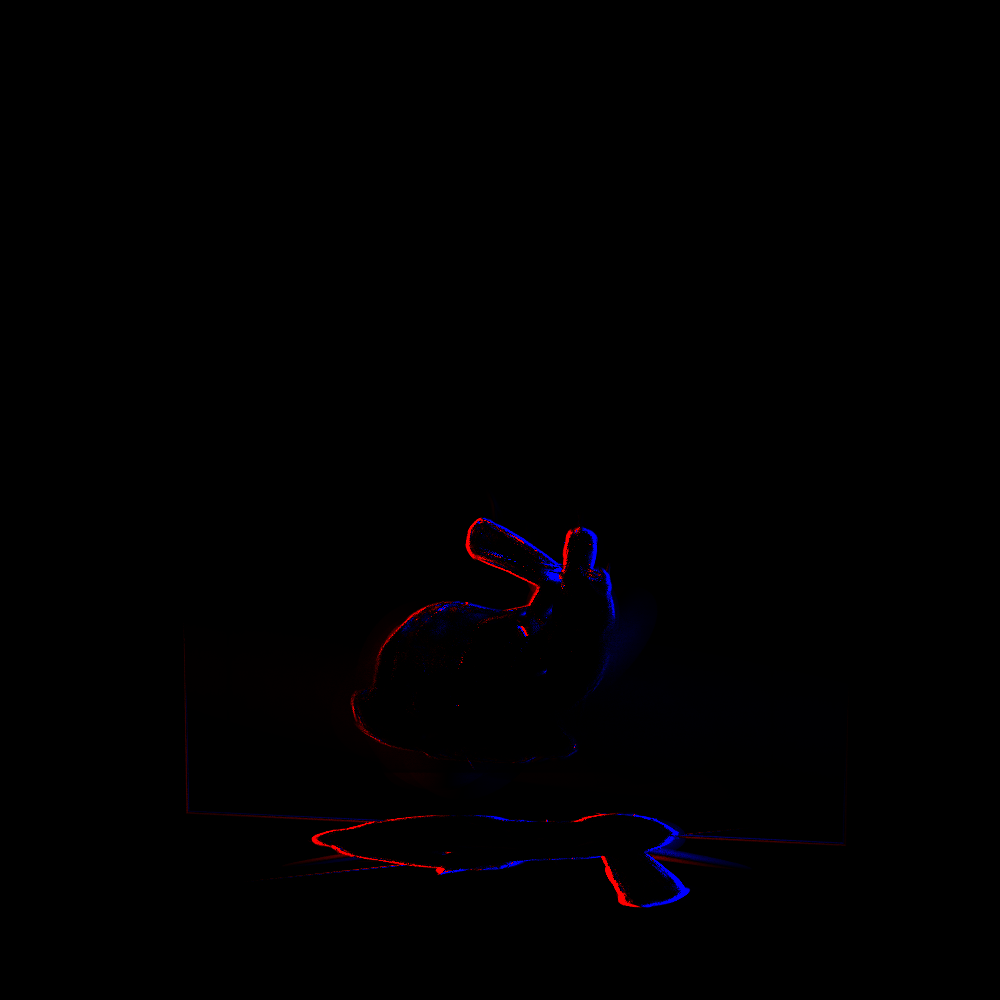
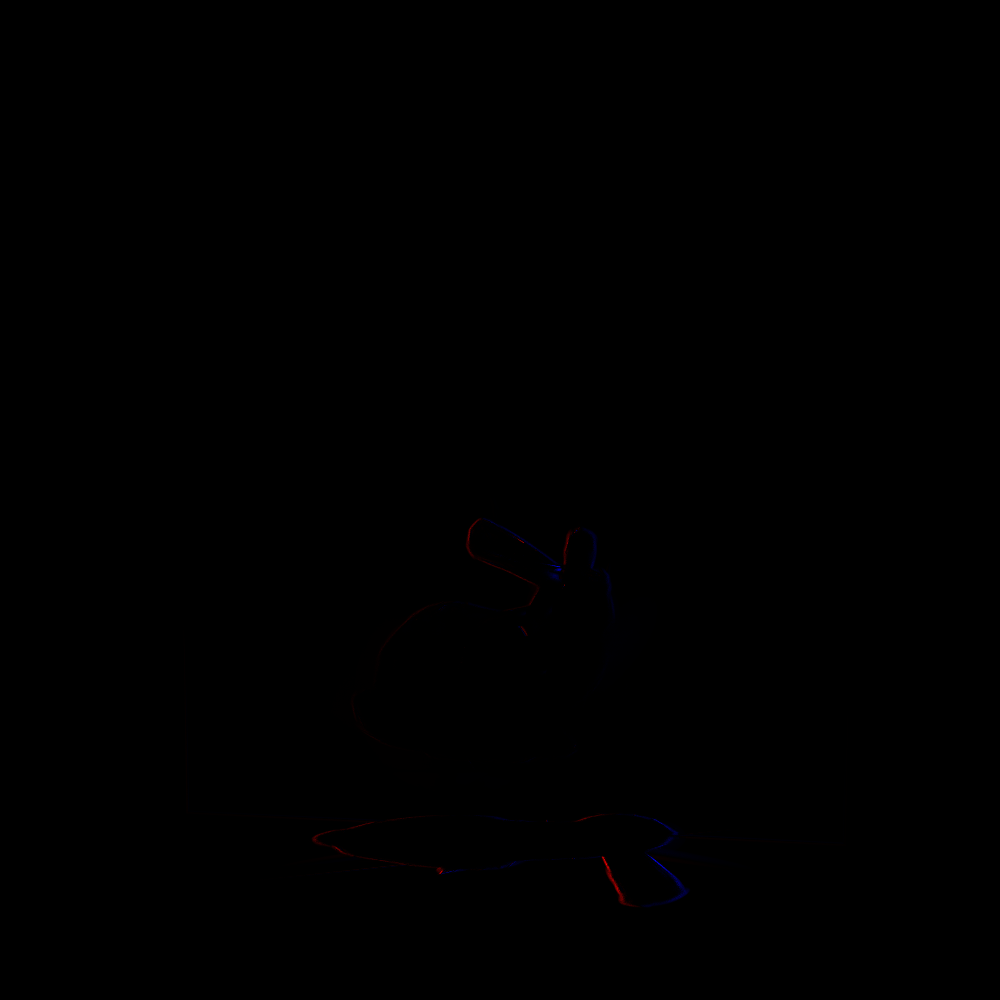
Test many samples

diff --git a/Pale/Renderer/PathTracer.cpp b/Pale/Renderer/PathTracer.cpp
@@ -27,12 +27,12 @@ namespace Pale {
 
 #else
         //  cuda/rocm
-        m_settings.photonsPerLaunch = 1e6; // 1e6
+        m_settings.photonsPerLaunch = 2e6; // 1e6
         m_settings.maxBounces = 4;
-        m_settings.numForwardPasses = 4;
-        m_settings.numGatherPasses = 4;
+        m_settings.numForwardPasses = 8;
+        m_settings.numGatherPasses = 8;
         m_settings.maxAdjointBounces = 2;
-        m_settings.adjointSamplesPerPixel = 16;
+        m_settings.adjointSamplesPerPixel = 256;
         // omp+
 
         //m_settings.photonsPerLaunch = 1e6; // 1e6
@@ -185,8 +185,8 @@ namespace Pale {
 
         auto topTLAS = bp.topLevelNodes.front();
         AABB sceneAabb{
-            topTLAS.aabbMin,
-            topTLAS.aabbMax
+            {-1, -1, 0},
+            {1, 1, 2},
         };
         const float Adiff = bp.diffuseSurfaceArea;
         const float N = static_cast<float>(requiredCapacity);

diff --git a/Pale/main.cpp b/Pale/main.cpp
@@ -300,7 +300,7 @@ int main(int argc, char **argv) {
 
     //transform.setRotationEuler(glm::vec3(-90.0f, 0.0f, 0.0f));
     //transform.setScale(glm::vec3(0.5f, 0.5f, 0.5f));
-    transform.setPosition(glm::vec3(0.0f, 0.0f, 0.0f));
+    //transform.setPosition(glm::vec3(0.001f, 0.0f, 0.0f));
     logSceneSummary(scene, assetManager);
 
     //FInd Sycl Device
